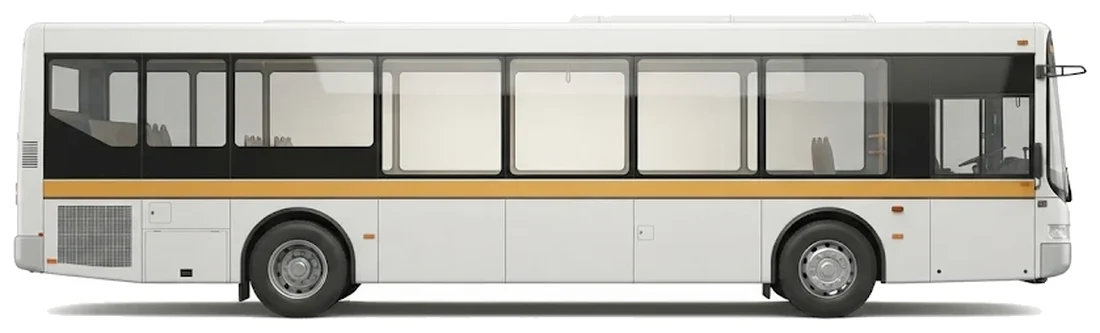
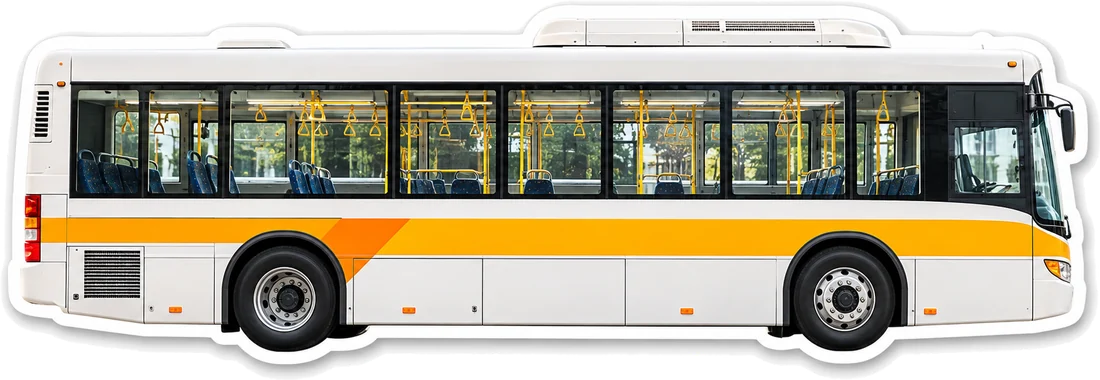
Rides: regenerated sharper AU bus, EU/UK/US trains
Claude-Session: https://claude.ai/code/session_019KDg86Vg5WC6fvHTCEMwLc

diff --git a/index.html b/index.html
@@ -1615,10 +1615,10 @@ const IMGVEH={bus_tw:{w:1100,h:348,s:110,c:1,win:[[780,133],[620,133],[485,133],
  bus_sg:{w:1100,h:363,s:110,c:1,win:[[845,141],[720,141],[600,141],[490,141],[355,141],[215,141]]},
  bus_fr:{w:1100,h:382,s:115,c:1,win:[[800,142],[640,142],[475,142],[320,142],[160,142]]},
  bus_us:{w:1100,h:336,s:100,c:1,win:[[870,130],[755,130],[630,130],[505,130],[370,130],[240,130],[130,130]]},
- bus_au:{w:1100,h:333,s:110,c:1,win:[[180,115],[310,115],[440,115],[570,115],[700,115],[830,115]]},
- train_eu:{w:1100,h:271,s:96,c:1,win:[[185,105],[305,105],[425,105],[545,105],[665,105],[785,105]]},
- train_uk:{w:1100,h:276,s:96,c:1,win:[[190,105],[310,105],[430,105],[555,105],[675,105],[790,105]]},
- train_us:{w:1100,h:265,s:90,c:1,win:[[245,105],[345,105],[445,105],[550,105],[650,105],[750,105],[850,105]]},
+ bus_au:{w:1100,h:380,s:110,c:1,win:[[180,138],[310,138],[440,138],[570,138],[700,138],[830,138]]},
+ train_eu:{w:1100,h:288,s:96,c:1,win:[[200,118],[320,118],[440,118],[560,118],[680,118],[800,118]]},
+ train_uk:{w:1100,h:289,s:96,c:1,win:[[200,108],[320,108],[440,108],[560,108],[680,108],[800,108]]},
+ train_us:{w:1100,h:325,s:96,c:1,win:[[200,128],[320,128],[440,128],[560,128],[680,128],[800,128]]},
  plane:{w:1100,h:361,s:104,c:1,win:[[200,220],[320,220],[440,220],[560,220],[680,220],[800,220],[920,220]]}};
 function imgVehKey(l,kind,here){if(kind==='plane')return'plane';if(kind==='bus'){const eu=['FR','DE','IT','ES','NL','CH','AT','CZ','GR','BE','PT'];if(here==='HK'||here==='MO')return Math.random()<.5?'bus_hk':'bus_hk2';
     return{TW:'bus_tw',JP:'bus_jp',KR:'bus_kr',UK:'bus_uk',TH:'bus_th',SG:'bus_sg',MY:'bus_sg',US:'bus_us',CA:'bus_us',MX:'bus_us',AU:'bus_au',NZ:'bus_au'}[here]||(eu.includes(here)?'bus_fr':null);}
